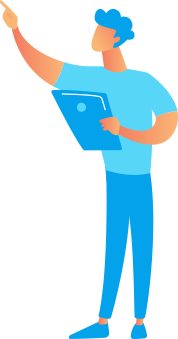
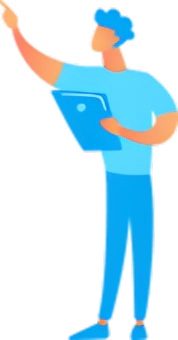
reset to old commit cba2517003

diff --git a/assets/css/color-palette/olive-garden-feast.css b/assets/css/color-palette/olive-garden-feast.css
@@ -9,9 +9,9 @@ Author: Mostafa Lotfy
 :root,
 [data-theme="dark"] {
   /* Core backgrounds */
-  --main-color: #020617;
+  --main-color: #284946;
   /* Main background */
-  --secondary-color: #020617;
+  --secondary-color: #5365ce;
   /* Sections / cards */
   --light-bg-color: #020617;
   /* Soft background */
@@ -51,16 +51,15 @@ Author: Mostafa Lotfy
 
 
 
-
 :root,
 [data-theme="light"] {
   --main-color: #F9FAFB;
-  --secondary-color: #5365ce;
+  --secondary-color: #2b7565;
   --third-color: #2563EB;
   --accent-color: #F97316;
   --text-color: #111827;
   --text-hover-color: #dda15e;
-  --text-muted: #6B7280;
+  --text-muted: #3c6357;
   --font-family: 'Poppins', sans-serif;
   --selection-color: var(--third-color);
   --secondary-hover-color: #e27777;
@@ -70,5 +69,6 @@ Author: Mostafa Lotfy
   --paragraph-color: #444444;
   --title-color: var(--text-color);
   --history-text-color: #cccccc;
+  --text-muted-placeholder:var(--light-color);
 
 }

diff --git a/assets/css/main.css b/assets/css/main.css
@@ -220,8 +220,10 @@ p {
 }
 
 img {
-  width: 100%;
+  max-width: 100%;
   overflow: hidden;
+  min-width: 75%;
+ 
 }
 
 /* 
@@ -471,7 +473,7 @@ header
 }
 
 .header-area .main-nav .nav li a {
-  color: var(--text-color);
+  color: var(--text-muted);
 }
 
 .header-area .main-nav .nav li:hover a,
@@ -1027,7 +1029,7 @@ Banner Style
 }
 
 .main-banner .left-content form button {
-  --text-color: white;
+ 
   position: absolute;
   right: 10px;
   top: 10px;
@@ -1496,7 +1498,7 @@ form#contact input {
   outline: none;
   font-size: 15px;
   font-weight: 300;
-  color: var(--text-color);
+  color: var(--text-muted-placeholder);
   padding: 0px 20px;
   margin-bottom: 20px;
 }
@@ -1559,7 +1561,7 @@ footer p {
 }
 
 footer p a {
-  color: var(--text-color);
+  color: var(--text-muted);
 }
 
 /*---------------------------------------------

diff --git a/assets/css/color-palette/navy.css b/assets/css/color-palette/navy.css
@@ -30,21 +30,23 @@ Author: Mostafa Lotfy
 [data-theme="light"] {
   color-scheme: light;
 }
-
+::placeholder {
+  color: var(--text-muted-placeholder) !important;
+}
 /* Light Mode */
 
 :root,[data-theme="light"] {
-  color-scheme: light;
- 
     --main-color: #F9FAFB;
-    --secondary-color: #FFFFFF;
+    --secondary-color: #b5673e;
     --third-color: #2563EB;
     --accent-color: #F97316;
-    --text-color: #111827;
-    --text-hover-color: var(--text-color);
-    --text-muted: #6B7280;
+    --text-color: #212121;
+    --text-hover-color: color-mix(var(--text-color) lightness(+20%));
+    --text-muted-placeholder:var(--light-color);
+    --text-muted: #000000;
     --selection-color: var(--third-color);
     --secondary-hover-color: #e27777;
     --paragraph-color: #444444;
     --title-color: var(--text-color);
+    
   }

diff --git a/assets/css/color-palette/new-corporate-tech.css b/assets/css/color-palette/new-corporate-tech.css
@@ -5,7 +5,7 @@ Author: Mostafa Lotfy
 -----------------------------------------------------------*/
 
 :root,[data-theme="dark"] {
-  color-scheme: dark;
+
   --main-color: #0F172A;
   --secondary-color: #345281;
   --third-color: #3B82F6;
@@ -20,10 +20,15 @@ Author: Mostafa Lotfy
   --title-color: var(--text-color);
 
 }
-
+[data-theme="dark"] {
+  color-scheme: dark;
+}
+[data-theme="light"] {
+  color-scheme: light;
+}
 
 :root,[data-theme="light"] {
-  color-scheme: light;
+ 
   
    
     --main-color: #F9FAFB;
@@ -42,6 +47,7 @@ Author: Mostafa Lotfy
 {
   color-scheme: normal;
 }
+
 
 form#contact input{
   color: var(--text-color) !important;

diff --git a/assets/css/color-palette/Ignite.css b/assets/css/color-palette/Ignite.css
@@ -37,11 +37,11 @@ Author: Mostafa Lotfy
 :root,
 [data-theme="light"] {
   --main-color: #F9FAFB;
-  --secondary-color: #FFFFFF;
+  --secondary-color: #e82e11;
   --third-color: #2563EB;
   --accent-color: #F97316;
-  --text-color: var(--light-color);
-  --text-muted: #6B7280;
+  --text-color: var(--dark-color);
+  --text-muted: #000000;
   --selection-color: var(--third-color);
   --secondary-hover-color: #e27777;
   --paragraph-color: #444444;

diff --git a/docs/ar/QUICK_REFERENCE.md b/docs/ar/QUICK_REFERENCE.md
@@ -6,7 +6,7 @@
 npm install
 npm run watch
 npm start
-npx eslint .
+npx eslint assets/css/main.css ./assets/js/main-custom.js assets/css/color-palette/*.css
 ```
 
 ## مهام سريعة

diff --git a/docs/DEVELOPMENT.md b/docs/DEVELOPMENT.md
@@ -13,7 +13,7 @@
 
 ```bash
 # 1. Navigate to project
-cd d:\projects\seo
+cd d:\projects\seo_nexus
 
 # 2. Install dependencies
 npm install
